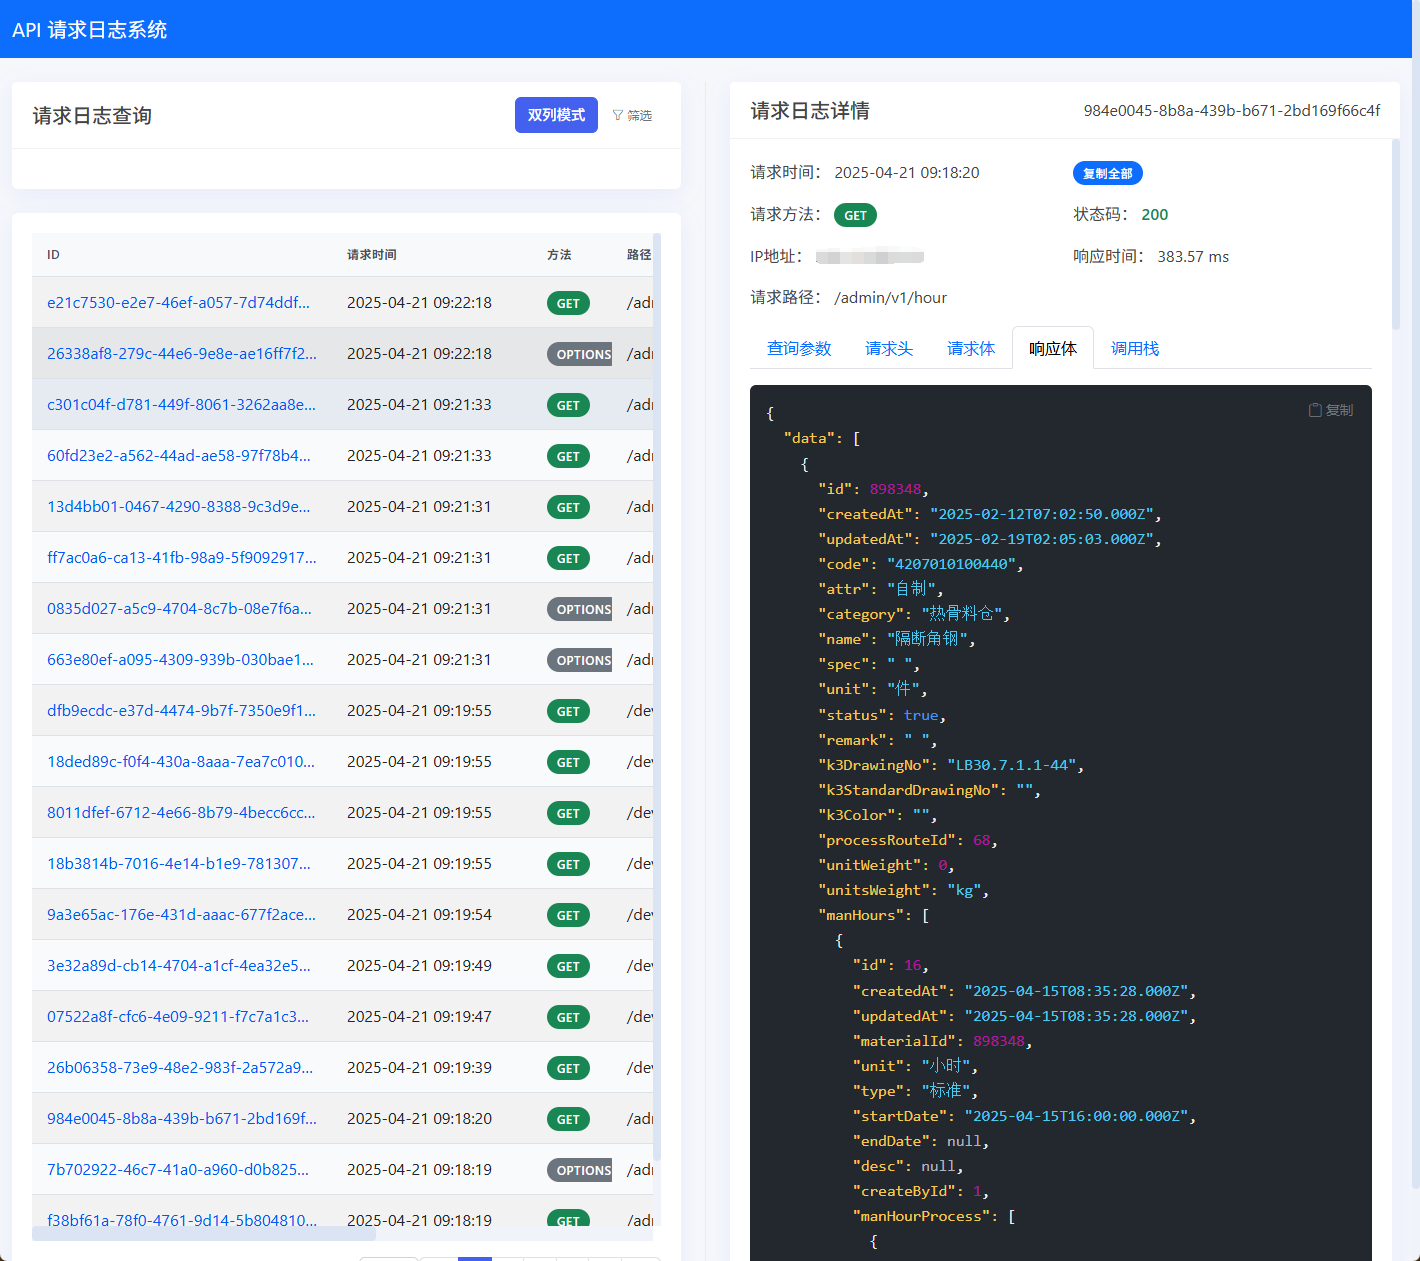
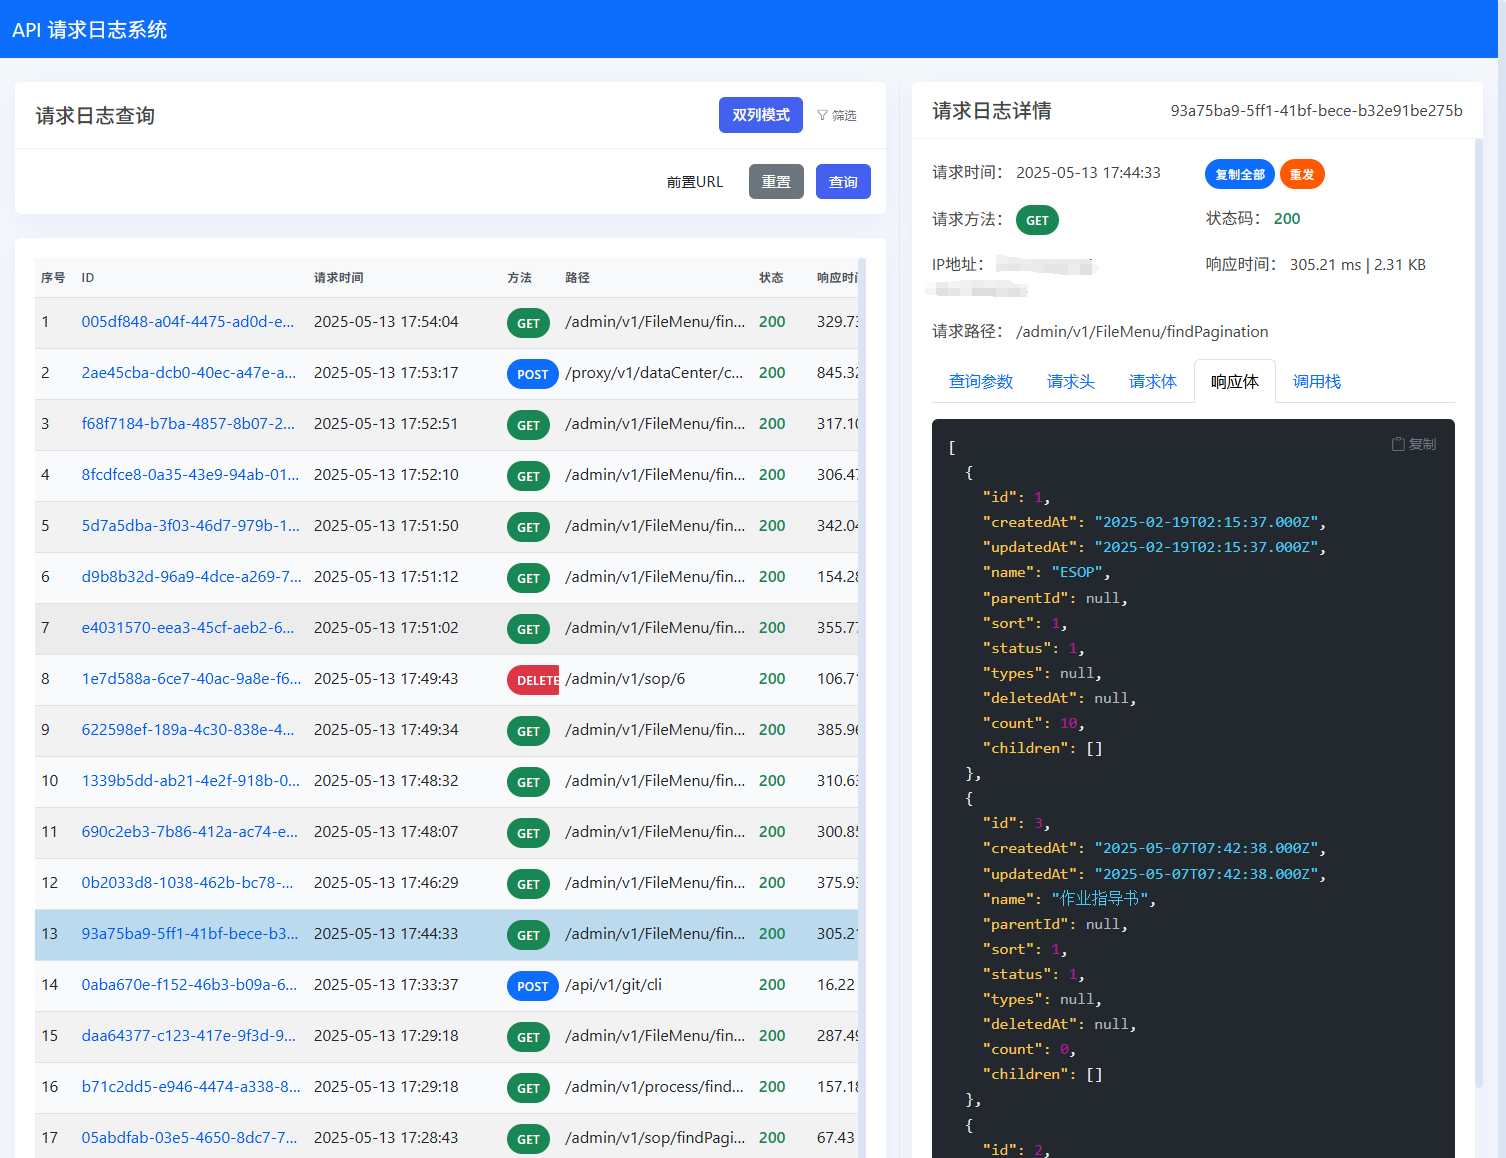
1.增加api记录重发 2.调整ip获取规则

Changed region(s): [[0.0, 0.0, 0.9915, 1.0], [0.9915, 0.9948, 1.0, 1.0]]

diff --git a/src/routes/static/js/components/log-list-manager.js b/src/routes/static/js/components/log-list-manager.js
@@ -107,7 +107,7 @@ const LogListManager = /** @type {LogListManager} */ ({
                     this.viewLogDetails(log.id)
                 }
                 //取消已经选择的类
-                
+
                 document.querySelectorAll('.log-row.selected').forEach(selectedRow => {
                     selectedRow.classList.remove("selected");
                 });
@@ -266,6 +266,14 @@ const LogListManager = /** @type {LogListManager} */ ({
                     UIManager.showAlert('复制失败，请重试', 'danger');
                 });
             });
+            const reissueButton = document.getElementById('reissue');
+            const newReissueButton = reissueButton.cloneNode(true);
+            // 先移除已有的事件监听器，防止重复添加
+            reissueButton.replaceWith(newReissueButton);
+
+            newReissueButton.addEventListener('click', () => {
+                this.resendRequest(logDetails);
+            });
             // 获取方法的样式类
             const methodClass = UIManager.getMethodClass(logDetails.method);
             document.getElementById('detail-method').innerHTML = `<span class="badge ${methodClass}">${logDetails.method}</span>`;
@@ -339,5 +347,78 @@ const LogListManager = /** @type {LogListManager} */ ({
                 page_mode.textContent = "单列模式"
             }
         })
+
+        const pre_url = document.getElementById('set-pre-url');
+        pre_url.addEventListener('click', ()=>{
+            this.setPreUrl(localStorage.getItem('preUrl'))
+        })
+    },
+
+    /**
+     * 重发请求
+     * @param  logDetails 日志详情对象
+     */
+    resendRequest: async function(logDetails) {
+        UIManager.showAlert('重发中', 'info');
+        const preUrl = this.getPreUrl();
+        if (!preUrl) {
+            return;
+        }
+
+        let url = `${preUrl}${logDetails.path}`;
+        const method = logDetails.method;
+        const headers = logDetails.headers;
+        const body = logDetails.requestBody;
+        const query = logDetails.query;
+        const requestData = {
+            url: url,
+            method: method,
+            headers: JSON.parse(headers),
+            body: body,
+        };
+        if(query){
+            // 构建查询参数
+            const queryParams = SearchFilterManager.buildQueryParams(JSON.parse(query));
+
+            // 发起API请求
+            url = `${url}?${queryParams}`
+        }
+        // 发送请求
+        const response = await fetch(url, requestData)
+
+        if (!response.ok) {
+            UIManager.showAlert('重发请求失败', 'danger');
+            throw new Error(`HTTP error! status: ${response.status}`);
+        }else{
+            UIManager.showAlert('重发请求成功,页面已刷新', 'success');
+            // 重新加载日志列表
+            this.loadLogs();
+        }
+        console.log("重发信息",response)
+
+    },
+    //获取重发请求前置url
+    getPreUrl: function() {
+        //从存储中获取
+        const preUrl = localStorage.getItem('preUrl');
+        if (preUrl) {
+            return preUrl;
+        } else {
+            return this.setPreUrl();
+        }
+    },
+    //设置重发请求前置url
+    setPreUrl: function(url) {
+        // 如果没有存储就弹出输入框输入存储
+        const inputUrl = prompt('请输入重发请求的前置URL', url);
+        if (inputUrl) {
+            // 存储到localStorage
+            localStorage.setItem('preUrl', inputUrl);
+            return inputUrl;
+        } else {
+            const preUrl = localStorage.getItem('preUrl')
+            if(!preUrl)UIManager.showAlert('请先设置重发请求的前置URL', 'warning');
+            return null;
+        }
     }
 });

diff --git a/src/routes/static/index.html b/src/routes/static/index.html
@@ -102,6 +102,7 @@
                     </form>
                 </div>
                 <div class="col-12 text-end dine">
+                    <button type="button" class="btn me-2" id="set-pre-url">前置URL</button>
                     <button type="button" class="btn btn-secondary me-2" id="reset-btn">重置</button>
                     <button id="search" class="btn btn-primary">查询</button>
                 </div>
@@ -192,6 +193,7 @@
                             <div class="col-md-6">
                                 <div class="detail-item">
                                     <span id="detail-copy" class="badge bg-primary" style="cursor: pointer;">复制全部</span>
+                                    <span id="reissue" class="badge bg-primary" style="cursor: pointer;background-color: #ff5900 !important">重发</span>
                                 </div>
                             </div>
                         </div>

diff --git a/src/middleware/apiLogger.ts b/src/middleware/apiLogger.ts
@@ -146,7 +146,7 @@ export default function apiLoggerMiddleware(options: ApiLoggerOptions = {}) {
       id: uuidv4(),
       method: req.method,
       path: req.path,
-      ip: (req.headers['x-forwarded-for'] as string) || (req.socket.remoteAddress as string) || (req.headers['x-real-ip'] as string) || req.ip || '',
+      ip: (req.headers['x-real-ip'] as string) || (req.headers['http_x_forwarded_for'] as string) || (req.headers['x-forwarded-for'] as string) || (req.socket.remoteAddress as string) || req.ip || '',
       headers: serializeAndTruncate(req.headers),
       query: serializeAndTruncate(req.query),
       params: serializeAndTruncate(req.params),

diff --git a/src/routes/static/js/components/config-manager.js b/src/routes/static/js/components/config-manager.js
@@ -6,7 +6,7 @@
 const ConfigManager = {
     // 配置
     config: {
-        "apiBasePath": '', // 默认使用相对路径，可以通过修改这个值来配置不同的API路径
+        "apiBasePath": 'https://s2d.orbitsoft.cn/202p', // 默认使用相对路径，可以通过修改这个值来配置不同的API路径
         pageSize: 20,    // 每页显示的记录数
         path: 'api-logs' // API日志路径
     },

diff --git a/src/routes/static/styles.css b/src/routes/static/styles.css
@@ -110,7 +110,7 @@ body {
 
 /* HTTP方法标签样式 */
 .badge {
-  padding: 6px 10px;
+  padding: 9px 10px;
   border-radius: 20px;
   font-weight: 500;
   font-size: 0.75rem;
